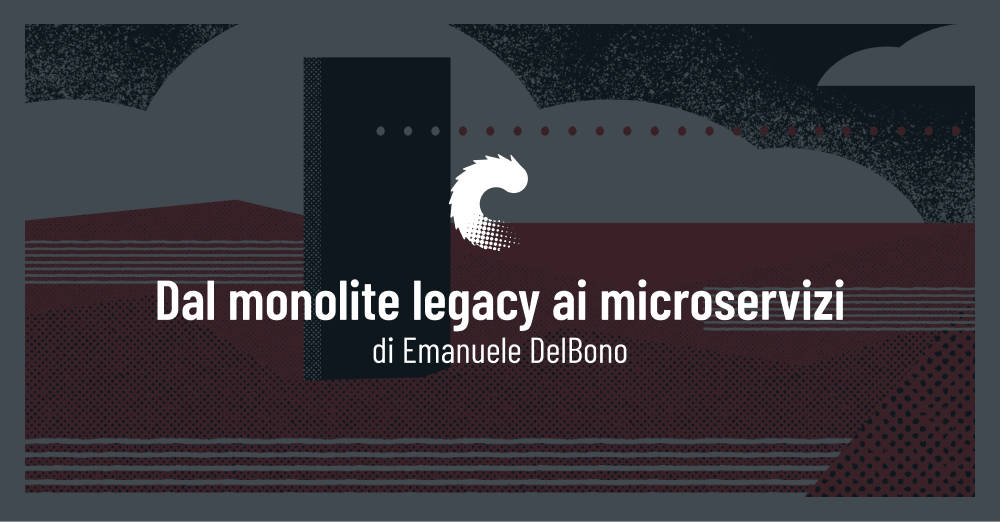
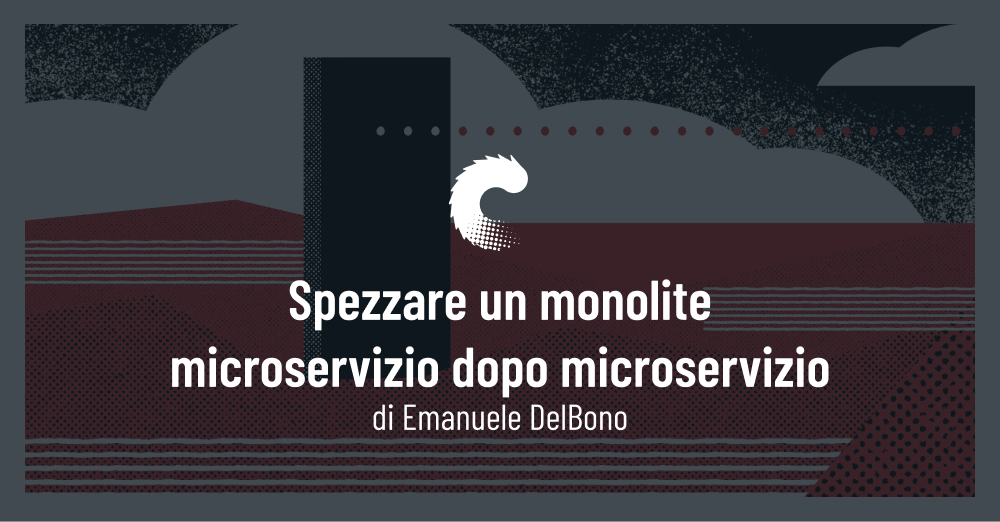
Blog post - monolite microservizi - updated

Changed region(s): [[0.155, 0.5211, 0.868, 0.8276]]

diff --git a/_posts/2022-04-25-monolite-ruby-legacy.md b/_posts/2022-04-25-monolite-ruby-legacy.md
@@ -4,7 +4,7 @@ current: post
 cover: 'assets/images/post-cover/2022-legacy.jpg'
 socialcover: 'assets/images/post-cover/2022-legacy-s.jpg'
 slug: come-rimodernare-app-legacy-monolite-ruby-microservizi
-title: "Dal monolite legacy ai microservizi"
+title: "Spezzare un monolite microservizio dopo microservizio"
 date: 2022-04-25 09:00:00
 category : [tech]
 tags: [legacy, coding, ruby]
